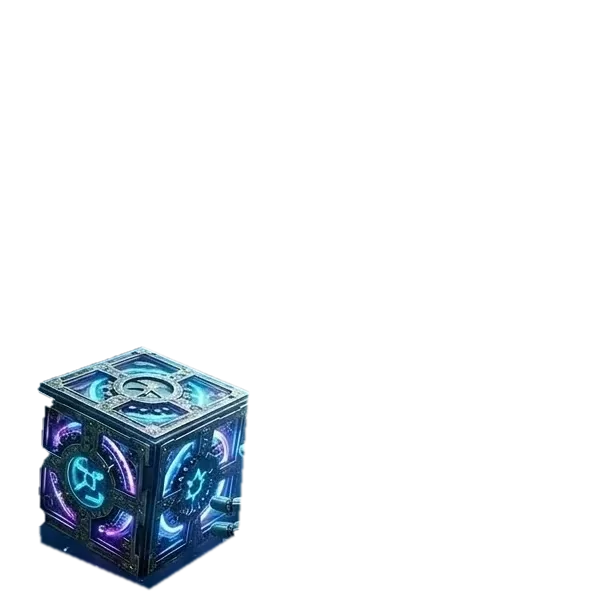
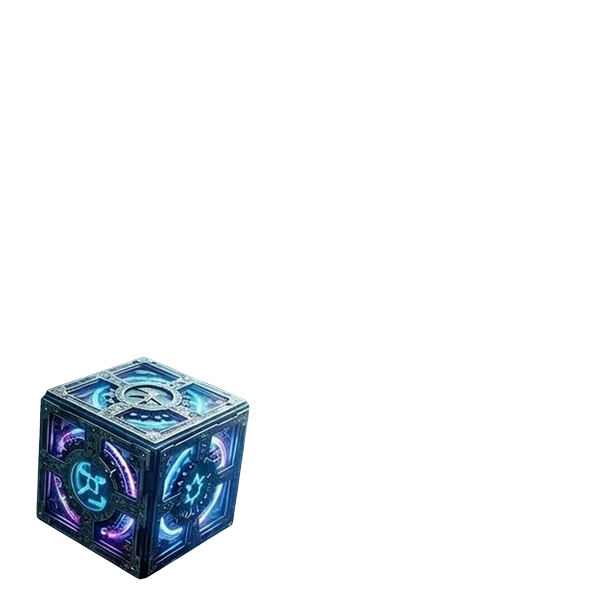
Catalog header: the clean cube cut-out, hovering gently in the diver's hands
Claude-Session: https://claude.ai/code/session_0195hiXiVZY5DpQ2CCYEr2vL

Changed region(s): [[0.0618, 0.57, 0.4016, 0.99]]

diff --git a/index.html b/index.html
@@ -4,7 +4,7 @@
 <meta charset="UTF-8">
 <meta name="viewport" content="width=device-width, initial-scale=1">
 <title>Parts Catalog — Christian Gehrke</title>
-<link rel="stylesheet" href="css/catalog.css?v=1793690000">
+<link rel="stylesheet" href="css/catalog.css?v=1793700000">
 <link rel="stylesheet" href="css/logo.css?v=6">
 <link rel="icon" href="/favicon.ico?v=2" sizes="any"><link rel="icon" href="/favicon.svg?v=2" type="image/svg+xml"><link rel="apple-touch-icon" href="/apple-touch-icon.png?v=2">
 <script>/* Logo season from the calendar (the homepage sets it from its own scene). */document.documentElement.dataset.season=["winter","winter","spring","spring","spring","summer","summer","summer","fall","fall","fall","winter"][new Date().getMonth()];</script>
@@ -13,7 +13,7 @@
 <body class="deep">
 
 <header class="cat-head cat-hero">
-  <div class="hero-stage" aria-hidden="true"><div class="hero-sea"></div><div class="hero-shaft"></div><div class="hero-seafloat"><img class="sf" src="assets/hero/s-00.webp" alt="" style="left:57.92%;top:1.30%;width:2.54%;--dx:-1.3vh;--dy:-2.6vh;--r:-4deg;animation-duration:16.8s,3.8s;animation-delay:-0.3s,-3.3s"><img class="sf" src="assets/hero/s-01.webp" alt="" style="left:47.67%;top:1.69%;width:7.19%;--dx:1.6vh;--dy:-3.4vh;--r:4deg;animation-duration:17.5s,4.5s;animation-delay:-3.0s,-0.6s"><img class="sf" src="assets/hero/s-02.webp" alt="" style="left:14.24%;top:2.08%;width:2.91%;--dx:1.4vh;--dy:-1.6vh;--r:4deg;animation-duration:16.6s,6.3s;animation-delay:-3.2s,-1.9s"><img class="sf" src="assets/hero/s-03.webp" alt="" style="left:60.47%;top:3.91%;width:2.62%;--dx:0.7vh;--dy:-1.5vh;--r:4deg;animation-duration:21.5s,3.8s;animation-delay:-13.0s,-4.0s"><img class="sf" src="assets/hero/s-04.webp" alt="" style="left:56.61%;top:8.20%;width:1.96%;--dx:-1.0vh;--dy:-2.4vh;--r:-6deg;animation-duration:20.1s,6.8s;animation-delay:-16.4s,-5.7s"><img class="sf" src="assets/hero/s-05.webp" alt="" style="left:58.07%;top:8.46%;width:2.76%;--dx:-1.6vh;--dy:-2.8vh;--r:4deg;animation-duration:24.1s,6.5s;animation-delay:-12.2s,-2.5s"><img class="sf" src="assets/hero/s-06.webp" alt="" style="left:52.18%;top:12.24%;width:5.31%;--dx:-0.2vh;--dy:-3.1vh;--r:4deg;animation-duration:21.2s,4.4s;animation-delay:-16.9s,-0.5s"><img class="sf" src="assets/hero/s-07.webp" alt="" style="left:56.98%;top:13.28%;width:2.40%;--dx:1.6vh;--dy:-2.3vh;--r:6deg;animation-duration:19.6s,6.0s;animation-delay:-2.8s,-4.0s"><img class="sf" src="assets/hero/s-08.webp" alt="" style="left:94.69%;top:17.45%;width:2.54%;--dx:1.3vh;--dy:-2.0vh;--r:6deg;animation-duration:14.8s,4.5s;animation-delay:-5.3s,-4.5s"><img class="sf" src="assets/hero/s-09.webp" alt="" style="left:92.51%;top:18.88%;width:1.67%;--dx:0.2vh;--dy:-1.4vh;--r:-6deg;animation-duration:17.8s,6.4s;animation-delay:-12.6s,-1.7s"><img class="sf" src="assets/hero/s-10.webp" alt="" style="left:56.18%;top:30.21%;width:2.83%;--dx:1.2vh;--dy:-3.2vh;--r:-4deg;animation-duration:21.0s,4.5s;animation-delay:-0.5s,-2.1s"><img class="sf" src="assets/hero/s-11.webp" alt="" style="left:95.42%;top:57.68%;width:3.27%;--dx:1.5vh;--dy:-2.8vh;--r:4deg;animation-duration:15.0s,3.6s;animation-delay:-4.3s,-5.8s"><img class="sf" src="assets/hero/s-12.webp" alt="" style="left:49.06%;top:66.80%;width:4.87%;--dx:-0.3vh;--dy:-1.3vh;--r:-6deg;animation-duration:23.3s,4.5s;animation-delay:-4.5s,-2.7s"><img class="sf" src="assets/hero/s-13.webp" alt="" style="left:95.71%;top:72.27%;width:1.89%;--dx:-0.4vh;--dy:-1.3vh;--r:4deg;animation-duration:15.6s,5.5s;animation-delay:-5.7s,-2.7s"><img class="sf" src="assets/hero/s-14.webp" alt="" style="left:66.72%;top:75.00%;width:6.03%;--dx:1.0vh;--dy:-1.2vh;--r:-6deg;animation-duration:18.4s,5.0s;animation-delay:-3.8s,-5.5s"><img class="sf" src="assets/hero/s-15.webp" alt="" style="left:10.90%;top:75.39%;width:2.54%;--dx:-1.4vh;--dy:-1.8vh;--r:-4deg;animation-duration:15.4s,5.6s;animation-delay:-8.4s,-3.5s"><img class="sf" src="assets/hero/s-16.webp" alt="" style="left:14.24%;top:77.86%;width:6.61%;--dx:-1.5vh;--dy:-1.6vh;--r:4deg;animation-duration:17.9s,6.2s;animation-delay:-7.3s,-5.9s"><img class="sf" src="assets/hero/s-17.webp" alt="" style="left:82.70%;top:80.21%;width:1.82%;--dx:-0.8vh;--dy:-2.6vh;--r:-6deg;animation-duration:19.7s,4.3s;animation-delay:-8.8s,-3.9s"><img class="sf" src="assets/hero/s-18.webp" alt="" style="left:70.20%;top:81.12%;width:6.47%;--dx:-0.9vh;--dy:-3.1vh;--r:-6deg;animation-duration:19.1s,4.4s;animation-delay:-4.6s,-1.2s"><img class="sf" src="assets/hero/s-19.webp" alt="" style="left:49.93%;top:82.29%;width:7.99%;--dx:1.2vh;--dy:-3.2vh;--r:-6deg;animation-duration:16.8s,6.6s;animation-delay:-5.3s,-0.7s"><img class="sf" src="assets/hero/s-20.webp" alt="" style="left:77.40%;top:83.33%;width:3.12%;--dx:1.5vh;--dy:-2.0vh;--r:-6deg;animation-duration:20.8s,5.2s;animation-delay:-1.9s,-1.3s"><img class="sf" src="assets/hero/s-21.webp" alt="" style="left:59.96%;top:87.76%;width:1.89%;--dx:1.3vh;--dy:-1.4vh;--r:4deg;animation-duration:24.5s,4.5s;animation-delay:-11.5s,-5.4s"><img class="sf" src="assets/hero/s-22.webp" alt="" style="left:75.80%;top:90.36%;width:8.28%;--dx:-0.3vh;--dy:-3.0vh;--r:4deg;animation-duration:17.8s,4.7s;animation-delay:-7.0s,-3.0s"><img class="sf" src="assets/hero/s-23.webp" alt="" style="left:63.66%;top:91.41%;width:7.05%;--dx:-0.7vh;--dy:-2.1vh;--r:-4deg;animation-duration:24.3s,3.7s;animation-delay:-21.8s,-0.8s"></div><span class="hero-critter hc-fish hc-far"><span class="hc-lure"></span><img src="assets/hero/c-fish.webp" alt=""><img class="hc-glow" src="assets/hero/c-fish-glow.webp" alt=""></span><span class="hero-critter hc-larva hc-far"><img src="assets/hero/c-larva.webp" alt=""><img class="hc-glow" src="assets/hero/c-larva-glow.webp" alt=""></span><span class="hero-critter hc-comb hc-far"><img src="assets/hero/c-comb.webp" alt=""><img class="hc-glow" src="assets/hero/c-comb-glow.webp" alt=""></span><span class="hero-critter hc-moon hc-far"><img src="assets/hero/c-moon.webp" alt=""><img class="hc-glow" src="assets/hero/c-moon-glow.webp" alt=""></span><span class="hero-critter hc-blue hc-far"><img src="assets/hero/c-blue.webp" alt=""><img class="hc-glow" src="assets/hero/c-blue-glow.webp" alt=""></span><svg class="hero-snow-l"><g class="hero-snow" fill="#cfefff"><circle cx="61.1%" cy="4.3%" r="1.0" style="animation-duration:22.1s;animation-delay:-15.3s"/><circle cx="77.5%" cy="8.7%" r="0.9" style="animation-duration:24.4s;animation-delay:-15.2s"/><circle cx="45.1%" cy="40.2%" r="1.6" style="animation-duration:20.9s;animation-delay:-0.5s"/><circle cx="79.9%" cy="32.9%" r="1.0" style="animation-duration:16.6s;animation-delay:-11.5s"/><circle cx="32.5%" cy="8.9%" r="1.2" style="animation-duration:15.2s;animation-delay:-20.4s"/><circle cx="2.5%" cy="78.1%" r="1.4" style="animation-duration:20.0s;animation-delay:-18.4s"/><circle cx="24.8%" cy="73.8%" r="1.0" style="animation-duration:16.8s;animation-delay:-25.1s"/><circle cx="40.1%" cy="37.3%" r="1.5" style="animation-duration:18.4s;animation-delay:-17.4s"/><circle cx="17.1%" cy="84.3%" r="0.9" style="animation-duration:14.6s;animation-delay:-25.4s"/><circle cx="17.3%" cy="94.7%" r="1.6" style="animation-duration:21.3s;animation-delay:-0.3s"/><circle cx="6.1%" cy="20.9%" r="1.0" style="animation-duration:21.3s;animation-delay:-25.1s"/><circle cx="35.5%" cy="14.1%" r="1.2" style="animation-duration:15.6s;animation-delay:-2.3s"/><circle cx="55.6%" cy="69.6%" r="0.7" style="animation-duration:19.4s;animation-delay:-18.3s"/><circle cx="76.4%" cy="38.3%" r="1.5" style="animation-duration:16.0s;animation-delay:-18.6s"/><circle cx="77.2%" cy="88.0%" r="1.1" style="animation-duration:15.2s;animation-delay:-1.3s"/><circle cx="52.9%" cy="17.3%" r="1.2" style="animation-duration:15.0s;animation-delay:-20.3s"/><circle cx="22.2%" cy="1.3%" r="0.8" style="animation-duration:19.5s;animation-delay:-14.5s"/><circle cx="38.8%" cy="17.3%" r="1.1" style="animation-duration:25.4s;animation-delay:-13.9s"/><circle cx="94.1%" cy="2.9%" r="1.6" style="animation-duration:24.7s;animation-delay:-14.2s"/><circle cx="52.3%" cy="53.7%" r="1.5" style="animation-duration:14.8s;animation-delay:-16.7s"/><circle cx="54.2%" cy="30.0%" r="1.3" style="animation-duration:22.6s;animation-delay:-2.7s"/><circle cx="70.0%" cy="45.4%" r="1.1" style="animation-duration:21.6s;animation-delay:-1.4s"/><circle cx="60.3%" cy="37.3%" r="1.5" style="animation-duration:16.8s;animation-delay:-21.4s"/><circle cx="73.0%" cy="62.5%" r="1.5" style="animation-duration:14.4s;animation-delay:-15.5s"/><circle cx="61.3%" cy="67.8%" r="1.0" style="animation-duration:14.8s;animation-delay:-4.9s"/><circle cx="60.8%" cy="18.1%" r="0.7" style="animation-duration:18.3s;animation-delay:-12.2s"/><circle cx="53.6%" cy="2.6%" r="1.4" style="animation-duration:18.0s;animation-delay:-20.4s"/><circle cx="0.9%" cy="95.4%" r="1.2" style="animation-duration:25.7s;animation-delay:-25.6s"/><circle cx="83.3%" cy="10.6%" r="0.9" style="animation-duration:16.8s;animation-delay:-20.3s"/><circle cx="19.2%" cy="22.1%" r="0.7" style="animation-duration:15.4s;animation-delay:-24.4s"/><circle cx="97.6%" cy="37.2%" r="1.3" style="animation-duration:19.6s;animation-delay:-13.6s"/><circle cx="36.9%" cy="63.5%" r="0.8" style="animation-duration:17.1s;animation-delay:-13.5s"/><circle cx="19.7%" cy="43.9%" r="1.5" style="animation-duration:14.3s;animation-delay:-2.7s"/><circle cx="80.0%" cy="5.8%" r="0.9" style="animation-duration:24.2s;animation-delay:-15.7s"/><circle cx="22.1%" cy="5.9%" r="0.9" style="animation-duration:17.6s;animation-delay:-20.8s"/><circle cx="97.6%" cy="78.6%" r="1.5" style="animation-duration:25.2s;animation-delay:-22.8s"/><circle cx="92.0%" cy="96.8%" r="0.7" style="animation-duration:17.8s;animation-delay:-6.4s"/><circle cx="60.4%" cy="49.2%" r="0.9" style="animation-duration:24.0s;animation-delay:-10.4s"/><circle cx="20.9%" cy="27.6%" r="1.1" style="animation-duration:21.3s;animation-delay:-14.8s"/><circle cx="44.0%" cy="18.6%" r="1.0" style="animation-duration:17.9s;animation-delay:-4.4s"/><circle cx="54.4%" cy="18.9%" r="1.3" style="animation-duration:21.9s;animation-delay:-3.6s"/><circle cx="62.5%" cy="33.8%" r="1.0" style="animation-duration:21.3s;animation-delay:-19.8s"/><circle cx="88.4%" cy="73.4%" r="0.8" style="animation-duration:20.5s;animation-delay:-8.7s"/><circle cx="1.9%" cy="55.2%" r="1.1" style="animation-duration:24.4s;animation-delay:-8.4s"/><circle cx="83.4%" cy="51.4%" r="0.7" style="animation-duration:22.6s;animation-delay:-7.4s"/><circle cx="53.4%" cy="7.1%" r="0.6" style="animation-duration:25.1s;animation-delay:-1.1s"/><circle cx="14.9%" cy="16.3%" r="0.7" style="animation-duration:23.9s;animation-delay:-25.9s"/><circle cx="64.9%" cy="39.5%" r="1.5" style="animation-duration:20.1s;animation-delay:-3.5s"/><circle cx="69.0%" cy="35.9%" r="0.9" style="animation-duration:17.8s;animation-delay:-10.0s"/><circle cx="18.2%" cy="61.3%" r="1.5" style="animation-duration:20.8s;animation-delay:-0.2s"/><circle cx="68.4%" cy="2.0%" r="1.1" style="animation-duration:24.4s;animation-delay:-17.6s"/><circle cx="90.8%" cy="75.5%" r="0.9" style="animation-duration:15.7s;animation-delay:-11.7s"/><circle cx="68.0%" cy="23.2%" r="0.9" style="animation-duration:23.0s;animation-delay:-9.0s"/><circle cx="60.1%" cy="54.5%" r="1.5" style="animation-duration:14.3s;animation-delay:-4.8s"/><circle cx="77.9%" cy="66.9%" r="0.7" style="animation-duration:15.6s;animation-delay:-5.5s"/><circle cx="54.3%" cy="90.2%" r="0.8" style="animation-duration:16.4s;animation-delay:-17.8s"/><circle cx="42.3%" cy="84.7%" r="1.6" style="animation-duration:25.2s;animation-delay:-18.6s"/><circle cx="49.6%" cy="6.1%" r="1.4" style="animation-duration:18.8s;animation-delay:-12.1s"/><circle cx="63.2%" cy="96.4%" r="1.2" style="animation-duration:25.0s;animation-delay:-25.1s"/><circle cx="8.5%" cy="35.5%" r="1.5" style="animation-duration:23.2s;animation-delay:-25.2s"/><circle cx="18.6%" cy="53.1%" r="1.5" style="animation-duration:20.5s;animation-delay:-17.4s"/><circle cx="97.5%" cy="17.3%" r="0.7" style="animation-duration:24.2s;animation-delay:-15.1s"/><circle cx="20.0%" cy="83.2%" r="0.9" style="animation-duration:15.6s;animation-delay:-7.7s"/><circle cx="3.6%" cy="40.6%" r="1.4" style="animation-duration:19.4s;animation-delay:-25.1s"/><circle cx="4.2%" cy="17.3%" r="0.7" style="animation-duration:20.9s;animation-delay:-5.2s"/><circle cx="66.7%" cy="52.3%" r="1.2" style="animation-duration:24.1s;animation-delay:-20.5s"/><circle cx="92.2%" cy="15.2%" r="1.0" style="animation-duration:25.5s;animation-delay:-10.3s"/><circle cx="28.6%" cy="48.2%" r="0.8" style="animation-duration:24.2s;animation-delay:-16.5s"/><circle cx="9.5%" cy="96.4%" r="1.1" style="animation-duration:17.0s;animation-delay:-15.9s"/><circle cx="95.0%" cy="34.7%" r="0.6" style="animation-duration:16.4s;animation-delay:-1.5s"/></g></svg><span class="hero-critter hc-fish"><span class="hc-lure"></span><img src="assets/hero/c-fish.webp" alt=""><img class="hc-glow" src="assets/hero/c-fish-glow.webp" alt=""></span><span class="hero-critter hc-larva"><img src="assets/hero/c-larva.webp" alt=""><img class="hc-glow" src="assets/hero/c-larva-glow.webp" alt=""></span><span class="hero-critter hc-comb"><img src="assets/hero/c-comb.webp" alt=""><img class="hc-glow" src="assets/hero/c-comb-glow.webp" alt=""></span><span class="hero-critter hc-moon"><img src="assets/hero/c-moon.webp" alt=""><img class="hc-glow" src="assets/hero/c-moon-glow.webp" alt=""></span><span class="hero-critter hc-blue"><img src="assets/hero/c-blue.webp" alt=""><img class="hc-glow" src="assets/hero/c-blue-glow.webp" alt=""></span><div class="hero-group hero-g-a hero-float"><svg class="hero-fx" viewBox="160 0 730 768" overflow="visible"><defs><radialGradient id="hLamp"><stop offset="0" stop-color="#eaf8ff" stop-opacity=".9"/><stop offset=".35" stop-color="#8fd8ff" stop-opacity=".4"/><stop offset="1" stop-color="#3aa0ff" stop-opacity="0"/></radialGradient><radialGradient id="hCube"><stop offset="0" stop-color="#c58bff" stop-opacity=".75"/><stop offset=".45" stop-color="#6fd6ff" stop-opacity=".3"/><stop offset="1" stop-color="#5a3cff" stop-opacity="0"/></radialGradient><radialGradient id="hJelly"><stop offset="0" stop-color="#7fffe0" stop-opacity=".42"/><stop offset=".6" stop-color="#2fd0c8" stop-opacity=".18"/><stop offset="1" stop-color="#0a8fb0" stop-opacity="0"/></radialGradient></defs><circle class="hero-glow hero-g-jelly" cx="538" cy="318" r="330" fill="url(#hJelly)"/></svg><img class="hero-jelly" src="assets/hero/jelly.webp?v=2" alt=""><img class="hero-dog" src="assets/hero/dog.webp" alt=""><svg class="hero-fx" viewBox="160 0 730 768" overflow="visible"><g fill="none" stroke="#bfeeff" stroke-width="1.6" opacity=".8"><circle class="hero-bub" cx="437" cy="70" r="2.8" style="--sw:-10px;animation-duration:8.9s;animation-delay:-0.9s"/><circle class="hero-bub" cx="464" cy="70" r="3.9" style="--sw:10px;animation-duration:9.2s;animation-delay:-0.4s"/><circle class="hero-bub" cx="562" cy="70" r="3.4" style="--sw:-10px;animation-duration:9.6s;animation-delay:-7.5s"/><circle class="hero-bub" cx="451" cy="70" r="3.7" style="--sw:-10px;animation-duration:8.2s;animation-delay:-9.1s"/></g></svg></div><div class="hero-group hero-g-b hero-diver"><img src="assets/hero/diver.webp" alt=""><img src="assets/hero/cube.webp" alt=""><svg class="hero-fx" viewBox="735 60 615 600" overflow="visible"><circle class="hero-glow hero-g-lamp" cx="920" cy="165" r="95" fill="url(#hLamp)"/><circle class="hero-glow hero-g-lamp2" cx="1158" cy="290" r="88" fill="url(#hLamp)"/><circle class="hero-glow hero-g-cube" cx="875" cy="520" r="150" fill="url(#hCube)"/><g fill="none" stroke="#bfeeff" stroke-width="1.6" opacity=".85"><circle class="hero-bub" cx="1014" cy="92" r="5.1" style="--sw:-14px;animation-duration:5.8s;animation-delay:-1.5s"/><circle class="hero-bub" cx="1006" cy="92" r="4.8" style="--sw:-14px;animation-duration:7.7s;animation-delay:-0.6s"/><circle class="hero-bub" cx="1031" cy="92" r="4.3" style="--sw:14px;animation-duration:7.1s;animation-delay:-3.6s"/><circle class="hero-bub" cx="995" cy="92" r="3.6" style="--sw:-14px;animation-duration:5.2s;animation-delay:-1.1s"/><circle class="hero-bub" cx="1034" cy="92" r="5.4" style="--sw:8px;animation-duration:7.4s;animation-delay:-7.1s"/><circle class="hero-bub" cx="998" cy="92" r="5.4" style="--sw:-14px;animation-duration:7.2s;animation-delay:-3.4s"/><circle class="hero-bub" cx="1034" cy="92" r="3.9" style="--sw:-14px;animation-duration:5.6s;animation-delay:-2.2s"/><circle class="hero-bub" cx="1177" cy="108" r="4.3" style="--sw:10px;animation-duration:5.5s;animation-delay:-3.3s"/><circle class="hero-bub" cx="1196" cy="108" r="2.8" style="--sw:-10px;animation-duration:6.2s;animation-delay:-5.9s"/><circle class="hero-bub" cx="1203" cy="108" r="2.5" style="--sw:-10px;animation-duration:7.8s;animation-delay:-1.6s"/><circle class="hero-bub" cx="1186" cy="108" r="2.5" style="--sw:-10px;animation-duration:5.8s;animation-delay:-4.3s"/><circle class="hero-bub" cx="1197" cy="108" r="2.7" style="--sw:10px;animation-duration:7.0s;animation-delay:-7.4s"/></g></svg></div><div class="hero-front"><img class="ff ff-0" src="assets/hero/s-22.webp" alt=""><img class="ff ff-1" src="assets/hero/s-01.webp" alt=""><img class="ff ff-2" src="assets/hero/s-16.webp" alt=""></div></div>
+  <div class="hero-stage" aria-hidden="true"><div class="hero-sea"></div><div class="hero-shaft"></div><div class="hero-seafloat"><img class="sf" src="assets/hero/s-00.webp" alt="" style="left:57.92%;top:1.30%;width:2.54%;--dx:-1.3vh;--dy:-2.6vh;--r:-4deg;animation-duration:16.8s,3.8s;animation-delay:-0.3s,-3.3s"><img class="sf" src="assets/hero/s-01.webp" alt="" style="left:47.67%;top:1.69%;width:7.19%;--dx:1.6vh;--dy:-3.4vh;--r:4deg;animation-duration:17.5s,4.5s;animation-delay:-3.0s,-0.6s"><img class="sf" src="assets/hero/s-02.webp" alt="" style="left:14.24%;top:2.08%;width:2.91%;--dx:1.4vh;--dy:-1.6vh;--r:4deg;animation-duration:16.6s,6.3s;animation-delay:-3.2s,-1.9s"><img class="sf" src="assets/hero/s-03.webp" alt="" style="left:60.47%;top:3.91%;width:2.62%;--dx:0.7vh;--dy:-1.5vh;--r:4deg;animation-duration:21.5s,3.8s;animation-delay:-13.0s,-4.0s"><img class="sf" src="assets/hero/s-04.webp" alt="" style="left:56.61%;top:8.20%;width:1.96%;--dx:-1.0vh;--dy:-2.4vh;--r:-6deg;animation-duration:20.1s,6.8s;animation-delay:-16.4s,-5.7s"><img class="sf" src="assets/hero/s-05.webp" alt="" style="left:58.07%;top:8.46%;width:2.76%;--dx:-1.6vh;--dy:-2.8vh;--r:4deg;animation-duration:24.1s,6.5s;animation-delay:-12.2s,-2.5s"><img class="sf" src="assets/hero/s-06.webp" alt="" style="left:52.18%;top:12.24%;width:5.31%;--dx:-0.2vh;--dy:-3.1vh;--r:4deg;animation-duration:21.2s,4.4s;animation-delay:-16.9s,-0.5s"><img class="sf" src="assets/hero/s-07.webp" alt="" style="left:56.98%;top:13.28%;width:2.40%;--dx:1.6vh;--dy:-2.3vh;--r:6deg;animation-duration:19.6s,6.0s;animation-delay:-2.8s,-4.0s"><img class="sf" src="assets/hero/s-08.webp" alt="" style="left:94.69%;top:17.45%;width:2.54%;--dx:1.3vh;--dy:-2.0vh;--r:6deg;animation-duration:14.8s,4.5s;animation-delay:-5.3s,-4.5s"><img class="sf" src="assets/hero/s-09.webp" alt="" style="left:92.51%;top:18.88%;width:1.67%;--dx:0.2vh;--dy:-1.4vh;--r:-6deg;animation-duration:17.8s,6.4s;animation-delay:-12.6s,-1.7s"><img class="sf" src="assets/hero/s-10.webp" alt="" style="left:56.18%;top:30.21%;width:2.83%;--dx:1.2vh;--dy:-3.2vh;--r:-4deg;animation-duration:21.0s,4.5s;animation-delay:-0.5s,-2.1s"><img class="sf" src="assets/hero/s-11.webp" alt="" style="left:95.42%;top:57.68%;width:3.27%;--dx:1.5vh;--dy:-2.8vh;--r:4deg;animation-duration:15.0s,3.6s;animation-delay:-4.3s,-5.8s"><img class="sf" src="assets/hero/s-12.webp" alt="" style="left:49.06%;top:66.80%;width:4.87%;--dx:-0.3vh;--dy:-1.3vh;--r:-6deg;animation-duration:23.3s,4.5s;animation-delay:-4.5s,-2.7s"><img class="sf" src="assets/hero/s-13.webp" alt="" style="left:95.71%;top:72.27%;width:1.89%;--dx:-0.4vh;--dy:-1.3vh;--r:4deg;animation-duration:15.6s,5.5s;animation-delay:-5.7s,-2.7s"><img class="sf" src="assets/hero/s-14.webp" alt="" style="left:66.72%;top:75.00%;width:6.03%;--dx:1.0vh;--dy:-1.2vh;--r:-6deg;animation-duration:18.4s,5.0s;animation-delay:-3.8s,-5.5s"><img class="sf" src="assets/hero/s-15.webp" alt="" style="left:10.90%;top:75.39%;width:2.54%;--dx:-1.4vh;--dy:-1.8vh;--r:-4deg;animation-duration:15.4s,5.6s;animation-delay:-8.4s,-3.5s"><img class="sf" src="assets/hero/s-16.webp" alt="" style="left:14.24%;top:77.86%;width:6.61%;--dx:-1.5vh;--dy:-1.6vh;--r:4deg;animation-duration:17.9s,6.2s;animation-delay:-7.3s,-5.9s"><img class="sf" src="assets/hero/s-17.webp" alt="" style="left:82.70%;top:80.21%;width:1.82%;--dx:-0.8vh;--dy:-2.6vh;--r:-6deg;animation-duration:19.7s,4.3s;animation-delay:-8.8s,-3.9s"><img class="sf" src="assets/hero/s-18.webp" alt="" style="left:70.20%;top:81.12%;width:6.47%;--dx:-0.9vh;--dy:-3.1vh;--r:-6deg;animation-duration:19.1s,4.4s;animation-delay:-4.6s,-1.2s"><img class="sf" src="assets/hero/s-19.webp" alt="" style="left:49.93%;top:82.29%;width:7.99%;--dx:1.2vh;--dy:-3.2vh;--r:-6deg;animation-duration:16.8s,6.6s;animation-delay:-5.3s,-0.7s"><img class="sf" src="assets/hero/s-20.webp" alt="" style="left:77.40%;top:83.33%;width:3.12%;--dx:1.5vh;--dy:-2.0vh;--r:-6deg;animation-duration:20.8s,5.2s;animation-delay:-1.9s,-1.3s"><img class="sf" src="assets/hero/s-21.webp" alt="" style="left:59.96%;top:87.76%;width:1.89%;--dx:1.3vh;--dy:-1.4vh;--r:4deg;animation-duration:24.5s,4.5s;animation-delay:-11.5s,-5.4s"><img class="sf" src="assets/hero/s-22.webp" alt="" style="left:75.80%;top:90.36%;width:8.28%;--dx:-0.3vh;--dy:-3.0vh;--r:4deg;animation-duration:17.8s,4.7s;animation-delay:-7.0s,-3.0s"><img class="sf" src="assets/hero/s-23.webp" alt="" style="left:63.66%;top:91.41%;width:7.05%;--dx:-0.7vh;--dy:-2.1vh;--r:-4deg;animation-duration:24.3s,3.7s;animation-delay:-21.8s,-0.8s"></div><span class="hero-critter hc-fish hc-far"><span class="hc-lure"></span><img src="assets/hero/c-fish.webp" alt=""><img class="hc-glow" src="assets/hero/c-fish-glow.webp" alt=""></span><span class="hero-critter hc-larva hc-far"><img src="assets/hero/c-larva.webp" alt=""><img class="hc-glow" src="assets/hero/c-larva-glow.webp" alt=""></span><span class="hero-critter hc-comb hc-far"><img src="assets/hero/c-comb.webp" alt=""><img class="hc-glow" src="assets/hero/c-comb-glow.webp" alt=""></span><span class="hero-critter hc-moon hc-far"><img src="assets/hero/c-moon.webp" alt=""><img class="hc-glow" src="assets/hero/c-moon-glow.webp" alt=""></span><span class="hero-critter hc-blue hc-far"><img src="assets/hero/c-blue.webp" alt=""><img class="hc-glow" src="assets/hero/c-blue-glow.webp" alt=""></span><svg class="hero-snow-l"><g class="hero-snow" fill="#cfefff"><circle cx="61.1%" cy="4.3%" r="1.0" style="animation-duration:22.1s;animation-delay:-15.3s"/><circle cx="77.5%" cy="8.7%" r="0.9" style="animation-duration:24.4s;animation-delay:-15.2s"/><circle cx="45.1%" cy="40.2%" r="1.6" style="animation-duration:20.9s;animation-delay:-0.5s"/><circle cx="79.9%" cy="32.9%" r="1.0" style="animation-duration:16.6s;animation-delay:-11.5s"/><circle cx="32.5%" cy="8.9%" r="1.2" style="animation-duration:15.2s;animation-delay:-20.4s"/><circle cx="2.5%" cy="78.1%" r="1.4" style="animation-duration:20.0s;animation-delay:-18.4s"/><circle cx="24.8%" cy="73.8%" r="1.0" style="animation-duration:16.8s;animation-delay:-25.1s"/><circle cx="40.1%" cy="37.3%" r="1.5" style="animation-duration:18.4s;animation-delay:-17.4s"/><circle cx="17.1%" cy="84.3%" r="0.9" style="animation-duration:14.6s;animation-delay:-25.4s"/><circle cx="17.3%" cy="94.7%" r="1.6" style="animation-duration:21.3s;animation-delay:-0.3s"/><circle cx="6.1%" cy="20.9%" r="1.0" style="animation-duration:21.3s;animation-delay:-25.1s"/><circle cx="35.5%" cy="14.1%" r="1.2" style="animation-duration:15.6s;animation-delay:-2.3s"/><circle cx="55.6%" cy="69.6%" r="0.7" style="animation-duration:19.4s;animation-delay:-18.3s"/><circle cx="76.4%" cy="38.3%" r="1.5" style="animation-duration:16.0s;animation-delay:-18.6s"/><circle cx="77.2%" cy="88.0%" r="1.1" style="animation-duration:15.2s;animation-delay:-1.3s"/><circle cx="52.9%" cy="17.3%" r="1.2" style="animation-duration:15.0s;animation-delay:-20.3s"/><circle cx="22.2%" cy="1.3%" r="0.8" style="animation-duration:19.5s;animation-delay:-14.5s"/><circle cx="38.8%" cy="17.3%" r="1.1" style="animation-duration:25.4s;animation-delay:-13.9s"/><circle cx="94.1%" cy="2.9%" r="1.6" style="animation-duration:24.7s;animation-delay:-14.2s"/><circle cx="52.3%" cy="53.7%" r="1.5" style="animation-duration:14.8s;animation-delay:-16.7s"/><circle cx="54.2%" cy="30.0%" r="1.3" style="animation-duration:22.6s;animation-delay:-2.7s"/><circle cx="70.0%" cy="45.4%" r="1.1" style="animation-duration:21.6s;animation-delay:-1.4s"/><circle cx="60.3%" cy="37.3%" r="1.5" style="animation-duration:16.8s;animation-delay:-21.4s"/><circle cx="73.0%" cy="62.5%" r="1.5" style="animation-duration:14.4s;animation-delay:-15.5s"/><circle cx="61.3%" cy="67.8%" r="1.0" style="animation-duration:14.8s;animation-delay:-4.9s"/><circle cx="60.8%" cy="18.1%" r="0.7" style="animation-duration:18.3s;animation-delay:-12.2s"/><circle cx="53.6%" cy="2.6%" r="1.4" style="animation-duration:18.0s;animation-delay:-20.4s"/><circle cx="0.9%" cy="95.4%" r="1.2" style="animation-duration:25.7s;animation-delay:-25.6s"/><circle cx="83.3%" cy="10.6%" r="0.9" style="animation-duration:16.8s;animation-delay:-20.3s"/><circle cx="19.2%" cy="22.1%" r="0.7" style="animation-duration:15.4s;animation-delay:-24.4s"/><circle cx="97.6%" cy="37.2%" r="1.3" style="animation-duration:19.6s;animation-delay:-13.6s"/><circle cx="36.9%" cy="63.5%" r="0.8" style="animation-duration:17.1s;animation-delay:-13.5s"/><circle cx="19.7%" cy="43.9%" r="1.5" style="animation-duration:14.3s;animation-delay:-2.7s"/><circle cx="80.0%" cy="5.8%" r="0.9" style="animation-duration:24.2s;animation-delay:-15.7s"/><circle cx="22.1%" cy="5.9%" r="0.9" style="animation-duration:17.6s;animation-delay:-20.8s"/><circle cx="97.6%" cy="78.6%" r="1.5" style="animation-duration:25.2s;animation-delay:-22.8s"/><circle cx="92.0%" cy="96.8%" r="0.7" style="animation-duration:17.8s;animation-delay:-6.4s"/><circle cx="60.4%" cy="49.2%" r="0.9" style="animation-duration:24.0s;animation-delay:-10.4s"/><circle cx="20.9%" cy="27.6%" r="1.1" style="animation-duration:21.3s;animation-delay:-14.8s"/><circle cx="44.0%" cy="18.6%" r="1.0" style="animation-duration:17.9s;animation-delay:-4.4s"/><circle cx="54.4%" cy="18.9%" r="1.3" style="animation-duration:21.9s;animation-delay:-3.6s"/><circle cx="62.5%" cy="33.8%" r="1.0" style="animation-duration:21.3s;animation-delay:-19.8s"/><circle cx="88.4%" cy="73.4%" r="0.8" style="animation-duration:20.5s;animation-delay:-8.7s"/><circle cx="1.9%" cy="55.2%" r="1.1" style="animation-duration:24.4s;animation-delay:-8.4s"/><circle cx="83.4%" cy="51.4%" r="0.7" style="animation-duration:22.6s;animation-delay:-7.4s"/><circle cx="53.4%" cy="7.1%" r="0.6" style="animation-duration:25.1s;animation-delay:-1.1s"/><circle cx="14.9%" cy="16.3%" r="0.7" style="animation-duration:23.9s;animation-delay:-25.9s"/><circle cx="64.9%" cy="39.5%" r="1.5" style="animation-duration:20.1s;animation-delay:-3.5s"/><circle cx="69.0%" cy="35.9%" r="0.9" style="animation-duration:17.8s;animation-delay:-10.0s"/><circle cx="18.2%" cy="61.3%" r="1.5" style="animation-duration:20.8s;animation-delay:-0.2s"/><circle cx="68.4%" cy="2.0%" r="1.1" style="animation-duration:24.4s;animation-delay:-17.6s"/><circle cx="90.8%" cy="75.5%" r="0.9" style="animation-duration:15.7s;animation-delay:-11.7s"/><circle cx="68.0%" cy="23.2%" r="0.9" style="animation-duration:23.0s;animation-delay:-9.0s"/><circle cx="60.1%" cy="54.5%" r="1.5" style="animation-duration:14.3s;animation-delay:-4.8s"/><circle cx="77.9%" cy="66.9%" r="0.7" style="animation-duration:15.6s;animation-delay:-5.5s"/><circle cx="54.3%" cy="90.2%" r="0.8" style="animation-duration:16.4s;animation-delay:-17.8s"/><circle cx="42.3%" cy="84.7%" r="1.6" style="animation-duration:25.2s;animation-delay:-18.6s"/><circle cx="49.6%" cy="6.1%" r="1.4" style="animation-duration:18.8s;animation-delay:-12.1s"/><circle cx="63.2%" cy="96.4%" r="1.2" style="animation-duration:25.0s;animation-delay:-25.1s"/><circle cx="8.5%" cy="35.5%" r="1.5" style="animation-duration:23.2s;animation-delay:-25.2s"/><circle cx="18.6%" cy="53.1%" r="1.5" style="animation-duration:20.5s;animation-delay:-17.4s"/><circle cx="97.5%" cy="17.3%" r="0.7" style="animation-duration:24.2s;animation-delay:-15.1s"/><circle cx="20.0%" cy="83.2%" r="0.9" style="animation-duration:15.6s;animation-delay:-7.7s"/><circle cx="3.6%" cy="40.6%" r="1.4" style="animation-duration:19.4s;animation-delay:-25.1s"/><circle cx="4.2%" cy="17.3%" r="0.7" style="animation-duration:20.9s;animation-delay:-5.2s"/><circle cx="66.7%" cy="52.3%" r="1.2" style="animation-duration:24.1s;animation-delay:-20.5s"/><circle cx="92.2%" cy="15.2%" r="1.0" style="animation-duration:25.5s;animation-delay:-10.3s"/><circle cx="28.6%" cy="48.2%" r="0.8" style="animation-duration:24.2s;animation-delay:-16.5s"/><circle cx="9.5%" cy="96.4%" r="1.1" style="animation-duration:17.0s;animation-delay:-15.9s"/><circle cx="95.0%" cy="34.7%" r="0.6" style="animation-duration:16.4s;animation-delay:-1.5s"/></g></svg><span class="hero-critter hc-fish"><span class="hc-lure"></span><img src="assets/hero/c-fish.webp" alt=""><img class="hc-glow" src="assets/hero/c-fish-glow.webp" alt=""></span><span class="hero-critter hc-larva"><img src="assets/hero/c-larva.webp" alt=""><img class="hc-glow" src="assets/hero/c-larva-glow.webp" alt=""></span><span class="hero-critter hc-comb"><img src="assets/hero/c-comb.webp" alt=""><img class="hc-glow" src="assets/hero/c-comb-glow.webp" alt=""></span><span class="hero-critter hc-moon"><img src="assets/hero/c-moon.webp" alt=""><img class="hc-glow" src="assets/hero/c-moon-glow.webp" alt=""></span><span class="hero-critter hc-blue"><img src="assets/hero/c-blue.webp" alt=""><img class="hc-glow" src="assets/hero/c-blue-glow.webp" alt=""></span><div class="hero-group hero-g-a hero-float"><svg class="hero-fx" viewBox="160 0 730 768" overflow="visible"><defs><radialGradient id="hLamp"><stop offset="0" stop-color="#eaf8ff" stop-opacity=".9"/><stop offset=".35" stop-color="#8fd8ff" stop-opacity=".4"/><stop offset="1" stop-color="#3aa0ff" stop-opacity="0"/></radialGradient><radialGradient id="hCube"><stop offset="0" stop-color="#c58bff" stop-opacity=".75"/><stop offset=".45" stop-color="#6fd6ff" stop-opacity=".3"/><stop offset="1" stop-color="#5a3cff" stop-opacity="0"/></radialGradient><radialGradient id="hJelly"><stop offset="0" stop-color="#7fffe0" stop-opacity=".42"/><stop offset=".6" stop-color="#2fd0c8" stop-opacity=".18"/><stop offset="1" stop-color="#0a8fb0" stop-opacity="0"/></radialGradient></defs><circle class="hero-glow hero-g-jelly" cx="538" cy="318" r="330" fill="url(#hJelly)"/></svg><img class="hero-jelly" src="assets/hero/jelly.webp?v=2" alt=""><img class="hero-dog" src="assets/hero/dog.webp" alt=""><svg class="hero-fx" viewBox="160 0 730 768" overflow="visible"><g fill="none" stroke="#bfeeff" stroke-width="1.6" opacity=".8"><circle class="hero-bub" cx="437" cy="70" r="2.8" style="--sw:-10px;animation-duration:8.9s;animation-delay:-0.9s"/><circle class="hero-bub" cx="464" cy="70" r="3.9" style="--sw:10px;animation-duration:9.2s;animation-delay:-0.4s"/><circle class="hero-bub" cx="562" cy="70" r="3.4" style="--sw:-10px;animation-duration:9.6s;animation-delay:-7.5s"/><circle class="hero-bub" cx="451" cy="70" r="3.7" style="--sw:-10px;animation-duration:8.2s;animation-delay:-9.1s"/></g></svg></div><div class="hero-group hero-g-b hero-diver"><img src="assets/hero/diver.webp" alt=""><img class="hero-cubeimg" src="assets/hero/cube.webp?v=2" alt=""><svg class="hero-fx" viewBox="735 60 615 600" overflow="visible"><circle class="hero-glow hero-g-lamp" cx="920" cy="165" r="95" fill="url(#hLamp)"/><circle class="hero-glow hero-g-lamp2" cx="1158" cy="290" r="88" fill="url(#hLamp)"/><circle class="hero-glow hero-g-cube" cx="875" cy="520" r="150" fill="url(#hCube)"/><g fill="none" stroke="#bfeeff" stroke-width="1.6" opacity=".85"><circle class="hero-bub" cx="1014" cy="92" r="5.1" style="--sw:-14px;animation-duration:5.8s;animation-delay:-1.5s"/><circle class="hero-bub" cx="1006" cy="92" r="4.8" style="--sw:-14px;animation-duration:7.7s;animation-delay:-0.6s"/><circle class="hero-bub" cx="1031" cy="92" r="4.3" style="--sw:14px;animation-duration:7.1s;animation-delay:-3.6s"/><circle class="hero-bub" cx="995" cy="92" r="3.6" style="--sw:-14px;animation-duration:5.2s;animation-delay:-1.1s"/><circle class="hero-bub" cx="1034" cy="92" r="5.4" style="--sw:8px;animation-duration:7.4s;animation-delay:-7.1s"/><circle class="hero-bub" cx="998" cy="92" r="5.4" style="--sw:-14px;animation-duration:7.2s;animation-delay:-3.4s"/><circle class="hero-bub" cx="1034" cy="92" r="3.9" style="--sw:-14px;animation-duration:5.6s;animation-delay:-2.2s"/><circle class="hero-bub" cx="1177" cy="108" r="4.3" style="--sw:10px;animation-duration:5.5s;animation-delay:-3.3s"/><circle class="hero-bub" cx="1196" cy="108" r="2.8" style="--sw:-10px;animation-duration:6.2s;animation-delay:-5.9s"/><circle class="hero-bub" cx="1203" cy="108" r="2.5" style="--sw:-10px;animation-duration:7.8s;animation-delay:-1.6s"/><circle class="hero-bub" cx="1186" cy="108" r="2.5" style="--sw:-10px;animation-duration:5.8s;animation-delay:-4.3s"/><circle class="hero-bub" cx="1197" cy="108" r="2.7" style="--sw:10px;animation-duration:7.0s;animation-delay:-7.4s"/></g></svg></div><div class="hero-front"><img class="ff ff-0" src="assets/hero/s-22.webp" alt=""><img class="ff ff-1" src="assets/hero/s-01.webp" alt=""><img class="ff ff-2" src="assets/hero/s-16.webp" alt=""></div></div>
   <div class="hero-text"><a class="cat-brand" href="../">Parts Catalog</a>
   <p class="cat-tagline">Every object the scene engine knows how to build — searchable, grouped, and demoed live with the same code that runs in production. New parts start in the <a href="workshop.html">Workshop</a>.</p></div>
 </header>

diff --git a/css/catalog.css b/css/catalog.css
@@ -437,3 +437,7 @@ body.deep{background:linear-gradient(180deg,#061429 0,#071a33 420px,#040b1a 100%
 .ff-2{width:calc(var(--h) * .11);top:70%;animation-duration:85s;animation-delay:-40s;animation-direction:reverse}
 @keyframes ff-cross{0%{transform:translate(105vw,0) rotate(-6deg)}50%{transform:translate(45vw,-18%) rotate(5deg)}100%{transform:translate(-25vw,0) rotate(-6deg)}}
 @media (prefers-reduced-motion:reduce){.sf,.ff{animation:none}.ff{display:none}}
+/* the cube hovers gently between the diver's hands */
+.hero-cubeimg{animation:cube-hover 6s ease-in-out infinite;transform-origin:16% 75%}
+@keyframes cube-hover{0%,100%{transform:translateY(0) rotate(0)}50%{transform:translateY(-1.2%) rotate(-1.2deg)}}
+@media (prefers-reduced-motion:reduce){.hero-cubeimg{animation:none}}
